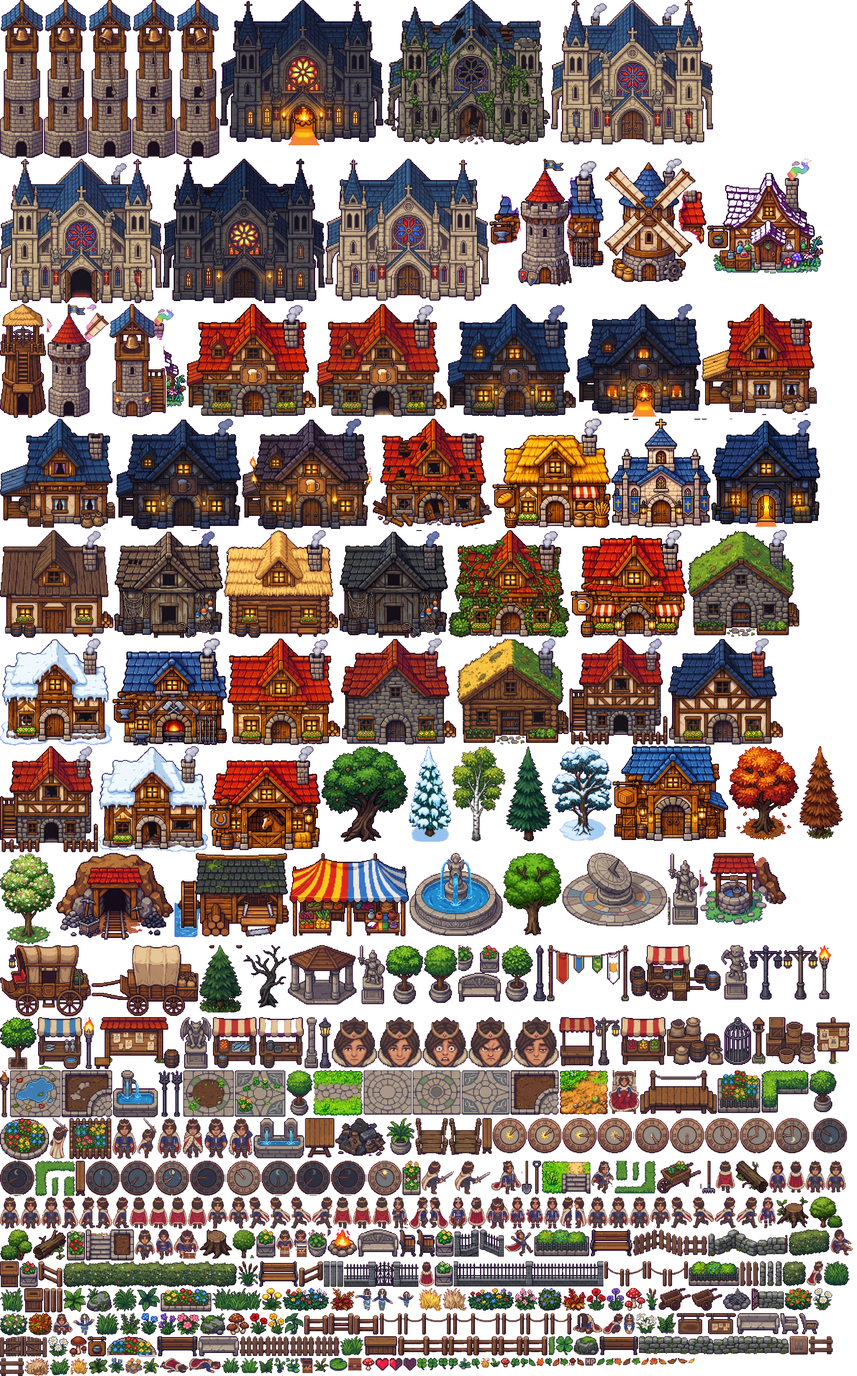
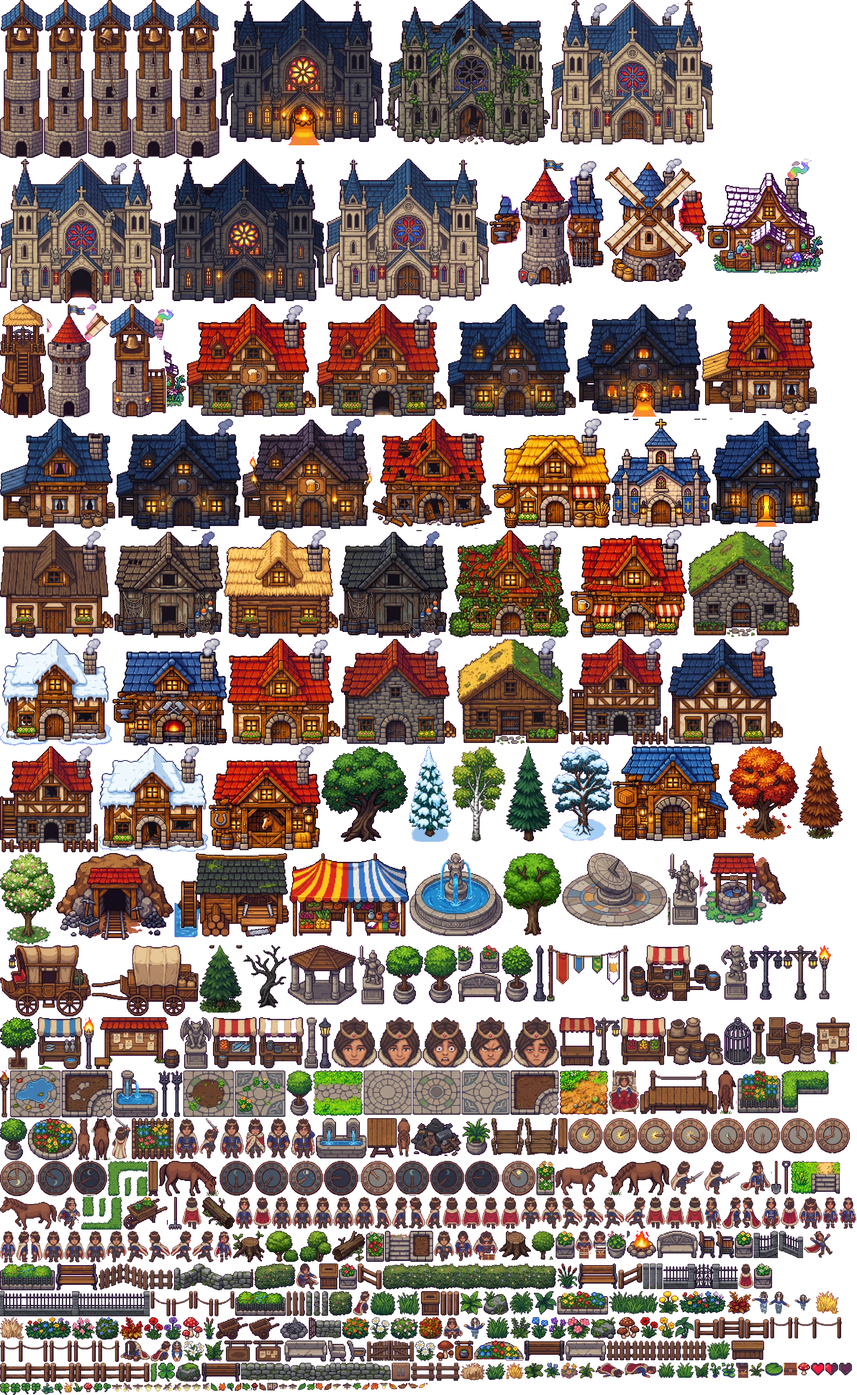
Adiciona cavalos no pasto e bandos de vagalumes
- Cavalo nas 4 direções e comendo: passeia pelo pasto ao sul do rio,
  para para comer, desvia da fogueira e pode ser acariciado
- Vagalumes em bandos raros de 5 a 9, mais frequentes à noite, que
  piscam e iluminam a escuridão

Claude-Session: https://claude.ai/code/session_01EDmvahWupUhnxnrcKo2aP1

diff --git a/assets/game/atlas.js b/assets/game/atlas.js
@@ -1,1 +1,1 @@
-window.ATLAS = {"agachado-baixo":[127,3136,46,52],"agachado-cima":[1002,3012,35,60],"agachado-direita":[1441,3136,48,50],"agachado-direita-b":[1928,3012,39,58],"andar-baixo-0":[1925,2772,47,76],"andar-baixo-1":[1974,2772,47,76],"andar-baixo-2":[0,2858,47,76],"andar-baixo-3":[49,2858,48,76],"andar-baixo-b0":[1404,2858,48,75],"andar-baixo-b1":[99,2858,47,76],"andar-baixo-b2":[1454,2858,48,75],"andar-baixo-b3":[1504,2858,48,75],"andar-cima-0":[310,2858,44,76],"andar-cima-1":[356,2858,45,76],"andar-cima-2":[403,2858,44,76],"andar-cima-3":[449,2858,45,76],"andar-lado-d0":[189,2858,38,76],"andar-lado-d1":[270,2858,38,76],"andar-lado-e0":[148,2858,39,76],"andar-lado-e1":[229,2858,39,76],"arbusto-0":[556,2936,55,69],"arbusto-1":[1934,2858,79,74],"arbusto-2":[0,2936,77,74],"armazem":[1464,1782,276,226],"arvore-betula":[1080,1782,128,227],"arvore-carvalho":[768,1782,207,228],"arvore-copa":[1203,2037,139,197],"arvore-florida":[0,2037,132,218],"arvore-neve":[1319,1782,143,226],"arvore-outono":[1742,1782,167,224],"arvore-pinheiro":[1210,1782,107,227],"arvore-pinheiro-2":[476,2257,103,161],"arvore-pinheiro-neve":[977,1782,101,228],"arvore-pinheiro-outono":[1911,1782,103,223],"arvore-seca":[581,2257,105,149],"ataque-baixo":[328,2670,46,96],"ataque-cima":[119,2670,45,98],"ataque-lado-0":[1007,2772,78,80],"ataque-lado-1":[1087,2772,85,80],"bau-abaixar":[416,2936,59,70],"bau-aberto":[718,3243,29,36],"bau-abrir-0":[660,2936,41,66],"bau-abrir-1":[703,2936,30,66],"bau-fechado":[832,3243,32,30],"bau-perto":[1162,2858,55,76],"botao-pausa":[1887,3191,44,44],"cama":[1455,2556,73,104],"capela":[1461,1000,237,259],"carroca":[219,2257,255,169],"carruagem":[0,2257,217,170],"casa-azul":[0,1000,275,264],"casa-dia":[544,1525,269,254],"casa-enxaimel-azul":[1597,1525,274,253],"casa-escada":[1361,1525,234,253],"casa-escada-2":[0,1782,234,253],"casa-hera":[1072,1266,290,256],"casa-madeira":[0,1266,271,257],"casa-neve":[0,1525,267,255],"casa-neve-aberta":[236,1782,261,252],"casa-noite":[1700,1000,260,258],"casa-palha":[535,1266,273,257],"casa-pedra":[815,1525,275,253],"casa-pedra-grama":[1643,1266,267,255],"casa-pescador":[273,1266,260,257],"casa-pescador-2":[810,1266,260,257],"casa-ruina":[891,1000,284,262],"casa-telhado-grama":[1092,1525,267,253],"casa-vermelha-galpao":[1677,726,275,265],"catedral-aberta":[0,379,387,345],"catedral-dia":[1317,0,387,345],"catedral-dia-2":[778,379,390,339],"catedral-fogo":[526,0,390,347],"catedral-noite":[389,379,387,345],"catedral-ruina":[918,0,397,347],"cercas-0":[573,3191,118,47],"cercas-1":[693,3191,58,47],"cercas-10":[105,3076,14,58],"cercas-11":[121,3076,13,58],"cercas-12":[136,3076,13,58],"cercas-13":[715,3012,57,61],"cercas-14":[92,3012,57,62],"cercas-15":[951,3191,357,46],"cercas-16":[727,3136,177,51],"cercas-17":[1527,3191,358,44],"cercas-18":[1815,3012,16,59],"cercas-19":[1833,3012,17,59],"cercas-2":[753,3191,58,47],"cercas-20":[1852,3012,16,59],"cercas-21":[1692,2936,191,64],"cercas-22":[1796,3076,77,54],"cercas-23":[1084,3012,358,60],"cercas-24":[774,3012,14,61],"cercas-25":[790,3012,14,61],"cercas-26":[806,3012,14,61],"cercas-27":[1086,2936,58,65],"cercas-28":[1146,2936,58,65],"cercas-29":[822,3012,178,61],"cercas-3":[1933,3191,57,43],"cercas-30":[151,3012,416,62],"cercas-31":[1885,2936,98,63],"cercas-32":[1870,3012,56,59],"cercas-33":[1444,3012,48,60],"cercas-34":[906,3136,56,51],"cercas-35":[964,3136,115,51],"cercas-36":[1081,3136,115,51],"cercas-37":[1198,3136,56,51],"cercas-38":[1256,3136,56,51],"cercas-39":[1314,3136,53,51],"cercas-4":[0,3243,57,43],"cercas-40":[1494,3012,51,60],"cercas-41":[1547,3012,47,60],"cercas-42":[1596,3012,48,60],"cercas-5":[1769,3012,13,59],"cercas-6":[1784,3012,14,59],"cercas-7":[1800,3012,13,59],"cercas-8":[1513,2936,177,64],"cercas-9":[0,3191,112,50],"corpo-assustado":[436,2670,50,96],"corpo-bravo":[488,2670,56,96],"corpo-cansado":[546,2670,58,96],"corpo-feliz":[268,2670,58,97],"corpo-neutro":[376,2670,58,96],"correr-baixo-0":[496,2858,48,76],"correr-baixo-1":[1554,2858,48,75],"correr-baixo-2":[322,2936,48,73],"correr-baixo-3":[546,2858,48,76],"correr-cima-0":[796,2858,45,76],"correr-cima-1":[843,2858,45,76],"correr-cima-2":[890,2858,45,76],"correr-cima-3":[1711,2772,45,77],"correr-lado-d0":[1708,2858,50,75],"correr-lado-d1":[1760,2858,50,75],"correr-lado-d2":[696,2858,48,76],"correr-lado-d3":[746,2858,48,76],"correr-lado-e0":[1604,2858,50,75],"correr-lado-e1":[1656,2858,50,75],"correr-lado-e2":[596,2858,48,76],"correr-lado-e3":[646,2858,48,76],"dano-ajoelhado":[1369,3136,70,50],"dano-capa":[1174,2772,71,80],"dano-empurrado":[1206,2936,69,64],"dano-ferido":[937,2858,39,76],"dano-golpe":[1413,2772,54,78],"desmaio-0":[372,2936,42,72],"desmaio-1":[1985,2936,53,62],"desmaio-2":[382,3243,68,36],"desmaio-3":[452,3243,76,36],"estabulo":[499,1782,267,248],"feira":[692,2037,285,199],"ferreiro":[269,1525,273,255],"hp-cheio":[897,3243,32,30],"hp-meio":[931,3243,31,30],"hp-rotulo":[1399,3243,25,18],"hp-vazio":[964,3243,31,30],"loja-pocoes":[1690,379,277,274],"loja-taverna":[1364,1266,277,256],"mercado-0":[1483,2429,109,114],"mercado-1":[507,2429,108,122],"mercado-10":[871,3191,78,46],"mercado-11":[1934,2556,65,100],"mercado-12":[924,2670,67,88],"mercado-13":[735,2936,46,66],"mercado-14":[1095,2257,102,135],"mercado-15":[613,2936,45,67],"mercado-16":[1277,2936,131,64],"mercado-17":[1819,2556,113,101],"mercado-18":[1715,2556,102,102],"mercado-19":[166,2670,100,98],"mercado-2":[89,2429,108,124],"mercado-20":[1570,2772,106,78],"mercado-21":[1247,2772,24,80],"mercado-22":[1273,2772,20,80],"mercado-23":[1678,2772,31,78],"mercado-24":[1410,2936,101,64],"mercado-25":[256,3191,118,48],"mercado-26":[1797,2429,32,113],"mercado-27":[1951,2429,80,112],"mercado-28":[1731,2429,64,114],"mercado-29":[1574,3076,77,54],"mercado-3":[617,2429,109,122],"mercado-30":[1761,3136,102,50],"mercado-31":[181,2772,22,84],"mercado-32":[729,2670,70,94],"mercado-33":[1153,2670,22,85],"mercado-34":[58,3076,45,58],"mercado-35":[0,3012,45,62],"mercado-36":[1530,2556,183,104],"mercado-37":[1653,3076,73,54],"mercado-38":[376,3191,96,48],"mercado-39":[1275,2257,30,134],"mercado-4":[1831,2429,118,112],"mercado-40":[1956,2257,30,129],"mercado-41":[854,2257,66,141],"mercado-42":[1307,2257,196,134],"mercado-43":[688,2257,164,142],"mercado-44":[379,2556,28,111],"mercado-45":[409,2556,27,111],"mercado-46":[0,2556,22,112],"mercado-47":[728,2429,32,122],"mercado-48":[199,2429,25,124],"mercado-49":[762,2429,29,122],"mercado-5":[1594,2429,135,114],"mercado-50":[1423,2429,58,115],"mercado-51":[431,2429,74,123],"mercado-52":[1724,2257,64,130],"mercado-53":[24,2556,121,112],"mercado-54":[438,2556,121,111],"mercado-55":[561,2556,121,111],"mercado-56":[147,2556,121,112],"mercado-57":[270,2556,107,112],"mercado-58":[606,2670,121,96],"mercado-59":[801,2670,121,90],"mercado-6":[1617,3136,67,50],"mercado-60":[1728,3076,66,54],"mercado-61":[783,2936,70,66],"mercado-7":[1686,3136,73,50],"mercado-8":[1337,2429,84,117],"mercado-9":[684,2556,63,108],"mina":[134,2037,281,207],"moinho":[1444,379,244,294],"nadar-baixo":[1491,3136,26,50],"nadar-cima-0":[849,3076,39,54],"nadar-cima-1":[890,3076,49,54],"nadar-cima-2":[941,3076,58,54],"olhos-fechados-baixo":[1073,2858,43,76],"olhos-fechados-cima":[1118,2858,42,76],"padaria":[1177,1000,282,261],"parado-baixo":[1838,2772,41,76],"parado-cima":[1881,2772,42,76],"parado-direita":[1339,2858,31,75],"parado-esquerda":[1372,2858,30,75],"placa-pocoes":[209,3191,45,48],"pocao-0":[1219,2858,36,76],"pocao-1":[1257,2858,41,76],"pocao-2":[1812,2858,42,75],"pocao-3":[1300,2858,37,76],"poco":[1672,2037,207,171],"ponte-curta":[993,2670,78,88],"ponte-curta-2":[1073,2670,78,88],"praca-0":[979,2037,222,198],"praca-1":[1596,2037,74,172],"praca-10":[0,2670,117,100],"praca-11":[384,3076,121,56],"praca-12":[1013,2257,80,138],"praca-13":[1199,2257,74,135],"praca-14":[922,2257,89,141],"praca-15":[0,2429,87,125],"praca-16":[474,3191,97,48],"praca-17":[1865,3136,43,50],"praca-18":[1910,3136,46,50],"praca-19":[1646,3012,121,59],"praca-2":[1344,2037,250,176],"praca-20":[1433,3191,92,45],"praca-21":[1790,2257,80,130],"praca-22":[1872,2257,82,130],"praca-23":[226,2429,203,124],"praca-24":[1505,2257,217,133],"praca-25":[1041,2936,43,65],"praca-26":[47,3012,43,62],"praca-27":[1039,3012,43,60],"praca-28":[869,2556,115,106],"praca-29":[986,2556,115,106],"praca-3":[160,2936,43,74],"praca-30":[1103,2556,115,106],"praca-31":[1220,2556,115,106],"praca-32":[205,2936,115,74],"praca-33":[1295,2772,116,79],"praca-34":[749,2556,118,108],"praca-35":[1337,2556,116,106],"praca-4":[962,2772,43,82],"praca-5":[299,3243,41,38],"praca-6":[618,3012,95,61],"praca-7":[855,2936,97,65],"praca-8":[954,2936,40,65],"praca-9":[996,2936,43,65],"rei-nadando-4":[175,3136,51,52],"relogio-0":[1177,2670,82,84],"relogio-1":[1261,2670,81,84],"relogio-10":[205,2772,81,83],"relogio-11":[288,2772,81,83],"relogio-12":[371,2772,81,83],"relogio-13":[454,2772,82,83],"relogio-14":[538,2772,85,83],"relogio-15":[625,2772,81,83],"relogio-16":[708,2772,81,83],"relogio-17":[0,2772,82,84],"relogio-18":[791,2772,82,83],"relogio-19":[875,2772,85,83],"relogio-2":[1344,2670,82,84],"relogio-3":[1428,2670,84,84],"relogio-4":[1514,2670,85,84],"relogio-5":[1601,2670,82,84],"relogio-6":[1685,2670,81,84],"relogio-7":[1768,2670,82,84],"relogio-8":[1852,2670,85,84],"relogio-9":[1939,2670,85,84],"retrato-assustado":[1010,2429,108,120],"retrato-bravo":[1120,2429,105,120],"retrato-cansado":[1227,2429,108,120],"retrato-feliz":[903,2429,105,120],"retrato-neutro":[793,2429,108,120],"serraria":[417,2037,273,201],"sino-0":[0,0,103,377],"sino-1":[105,0,103,377],"sino-2":[210,0,104,377],"sino-3":[316,0,103,377],"sino-4":[421,0,103,377],"sonambulo-direita":[978,2858,46,76],"sonambulo-esquerda":[1026,2858,45,76],"taverna-aberta":[757,726,310,269],"taverna-dia":[446,726,309,269],"taverna-lareira":[1378,726,297,269],"taverna-noite":[1069,726,307,269],"taverna-noite-2":[277,1000,299,264],"taverna-tochas":[578,1000,311,264],"toco":[477,2936,77,70],"toco-broto":[1856,2858,76,75],"torre-guarda":[1170,379,272,304],"torre-pedra":[112,726,148,270],"torre-sino-casa":[262,726,182,270],"torre-vigia":[0,726,110,272],"tronco":[1758,2772,78,77],"tronco-2":[79,2936,79,74],"vegetacao-0":[530,3243,42,36],"vegetacao-1":[119,3243,48,41],"vegetacao-10":[813,3191,56,46],"vegetacao-11":[1969,3012,61,58],"vegetacao-12":[0,3076,56,58],"vegetacao-13":[270,3076,56,56],"vegetacao-14":[1469,2772,99,78],"vegetacao-15":[1310,3191,17,45],"vegetacao-16":[749,3243,37,34],"vegetacao-17":[1058,3076,57,54],"vegetacao-18":[59,3243,58,42],"vegetacao-19":[1645,3243,15,12],"vegetacao-2":[228,3136,56,52],"vegetacao-20":[574,3243,43,36],"vegetacao-21":[212,3243,45,38],"vegetacao-22":[1172,3243,23,22],"vegetacao-23":[597,3136,42,51],"vegetacao-24":[641,3136,38,51],"vegetacao-25":[337,3136,40,52],"vegetacao-26":[379,3136,42,52],"vegetacao-27":[1117,3076,111,54],"vegetacao-28":[1519,3136,50,50],"vegetacao-29":[1230,3076,54,54],"vegetacao-3":[507,3076,118,55],"vegetacao-30":[1875,3076,66,53],"vegetacao-31":[1286,3076,56,54],"vegetacao-32":[1344,3076,56,54],"vegetacao-33":[1943,3076,46,53],"vegetacao-34":[1402,3076,46,54],"vegetacao-35":[1450,3076,41,54],"vegetacao-36":[627,3076,46,55],"vegetacao-37":[675,3076,112,55],"vegetacao-38":[114,3191,50,49],"vegetacao-39":[423,3136,54,52],"vegetacao-4":[84,2772,95,84],"vegetacao-40":[0,3136,66,53],"vegetacao-41":[68,3136,57,53],"vegetacao-42":[789,3076,58,55],"vegetacao-43":[997,3243,23,29],"vegetacao-44":[1022,3243,24,29],"vegetacao-45":[1571,3136,44,50],"vegetacao-46":[151,3076,54,57],"vegetacao-47":[1493,3076,49,54],"vegetacao-48":[569,3012,47,61],"vegetacao-49":[1544,3076,28,54],"vegetacao-5":[286,3136,49,52],"vegetacao-50":[1339,3243,19,18],"vegetacao-51":[1574,3243,19,15],"vegetacao-52":[479,3136,60,52],"vegetacao-53":[1048,3243,22,27],"vegetacao-54":[1072,3243,22,27],"vegetacao-55":[619,3243,34,36],"vegetacao-56":[1197,3243,21,22],"vegetacao-57":[866,3243,29,30],"vegetacao-58":[788,3243,42,31],"vegetacao-59":[1426,3243,19,17],"vegetacao-6":[342,3243,38,37],"vegetacao-60":[1264,3243,16,19],"vegetacao-61":[1447,3243,19,17],"vegetacao-62":[1509,3243,21,16],"vegetacao-63":[1532,3243,18,16],"vegetacao-64":[1282,3243,19,19],"vegetacao-65":[1552,3243,20,16],"vegetacao-66":[1468,3243,19,17],"vegetacao-67":[1303,3243,16,19],"vegetacao-68":[1220,3243,22,22],"vegetacao-69":[1329,3191,40,45],"vegetacao-7":[1001,3076,55,54],"vegetacao-70":[328,3076,54,56],"vegetacao-71":[681,3136,44,51],"vegetacao-72":[166,3191,41,49],"vegetacao-73":[541,3136,54,52],"vegetacao-74":[1096,3243,29,27],"vegetacao-75":[259,3243,38,38],"vegetacao-76":[655,3243,27,36],"vegetacao-77":[1595,3243,23,14],"vegetacao-78":[1321,3243,16,19],"vegetacao-79":[1371,3191,60,45],"vegetacao-8":[1149,3243,21,23],"vegetacao-80":[207,3076,61,57],"vegetacao-81":[1127,3243,20,26],"vegetacao-82":[1244,3243,18,22],"vegetacao-83":[1360,3243,17,18],"vegetacao-84":[684,3243,32,36],"vegetacao-85":[1489,3243,18,17],"vegetacao-86":[1379,3243,18,18],"vegetacao-87":[1620,3243,23,13],"vegetacao-9":[169,3243,41,39]};
+window.ATLAS = {"agachado-baixo":[1060,3145,46,52],"agachado-cima":[1765,3017,35,60],"agachado-direita":[360,3201,48,50],"agachado-direita-b":[844,3083,39,58],"andar-baixo-0":[650,2858,47,76],"andar-baixo-1":[699,2858,47,76],"andar-baixo-2":[748,2858,47,76],"andar-baixo-3":[797,2858,48,76],"andar-baixo-b0":[104,2939,48,75],"andar-baixo-b1":[847,2858,47,76],"andar-baixo-b2":[154,2939,48,75],"andar-baixo-b3":[204,2939,48,75],"andar-cima-0":[1058,2858,44,76],"andar-cima-1":[1104,2858,45,76],"andar-cima-2":[1151,2858,44,76],"andar-cima-3":[1197,2858,45,76],"andar-lado-d0":[937,2858,38,76],"andar-lado-d1":[1018,2858,38,76],"andar-lado-e0":[896,2858,39,76],"andar-lado-e1":[977,2858,39,76],"arbusto-0":[1271,2939,55,69],"arbusto-1":[634,2939,79,74],"arbusto-2":[715,2939,77,74],"armazem":[1464,1782,276,226],"arvore-betula":[1080,1782,128,227],"arvore-carvalho":[768,1782,207,228],"arvore-copa":[1203,2037,139,197],"arvore-florida":[0,2037,132,218],"arvore-neve":[1319,1782,143,226],"arvore-outono":[1742,1782,167,224],"arvore-pinheiro":[1210,1782,107,227],"arvore-pinheiro-2":[476,2257,103,161],"arvore-pinheiro-neve":[977,1782,101,228],"arvore-pinheiro-outono":[1911,1782,103,223],"arvore-seca":[581,2257,105,149],"ataque-baixo":[477,2670,46,96],"ataque-cima":[268,2670,45,98],"ataque-lado-0":[1603,2772,78,80],"ataque-lado-1":[1683,2772,85,80],"bau-abaixar":[1131,2939,59,70],"bau-aberto":[1759,3254,29,36],"bau-abrir-0":[1375,2939,41,66],"bau-abrir-1":[1418,2939,30,66],"bau-fechado":[1873,3254,32,30],"bau-perto":[1910,2858,55,76],"botao-pausa":[936,3254,44,44],"cama":[1455,2556,73,104],"capela":[1461,1000,237,259],"carroca":[219,2257,255,169],"carruagem":[0,2257,217,170],"casa-azul":[0,1000,275,264],"casa-dia":[544,1525,269,254],"casa-enxaimel-azul":[1597,1525,274,253],"casa-escada":[1361,1525,234,253],"casa-escada-2":[0,1782,234,253],"casa-hera":[1072,1266,290,256],"casa-madeira":[0,1266,271,257],"casa-neve":[0,1525,267,255],"casa-neve-aberta":[236,1782,261,252],"casa-noite":[1700,1000,260,258],"casa-palha":[535,1266,273,257],"casa-pedra":[815,1525,275,253],"casa-pedra-grama":[1643,1266,267,255],"casa-pescador":[273,1266,260,257],"casa-pescador-2":[810,1266,260,257],"casa-ruina":[891,1000,284,262],"casa-telhado-grama":[1092,1525,267,253],"casa-vermelha-galpao":[1677,726,275,265],"catedral-aberta":[0,379,387,345],"catedral-dia":[1317,0,387,345],"catedral-dia-2":[778,379,390,339],"catedral-fogo":[526,0,390,347],"catedral-noite":[389,379,387,345],"catedral-ruina":[918,0,397,347],"cavalo-baixo":[950,2670,30,92],"cavalo-cima":[186,2670,29,100],"cavalo-comer-baixo":[1715,2556,46,104],"cavalo-comer-cima":[217,2670,49,100],"cavalo-comer-direita":[379,2772,144,84],"cavalo-comer-esquerda":[1454,2772,147,82],"cavalo-direita":[1327,2772,125,82],"cavalo-esquerda":[0,2858,136,79],"cercas-0":[1450,3201,118,47],"cercas-1":[1570,3201,58,47],"cercas-10":[1053,3083,14,58],"cercas-11":[1069,3083,13,58],"cercas-12":[1084,3083,13,58],"cercas-13":[1478,3017,57,61],"cercas-14":[855,3017,57,62],"cercas-15":[0,3254,357,46],"cercas-16":[1660,3145,177,51],"cercas-17":[576,3254,358,44],"cercas-18":[731,3083,16,59],"cercas-19":[749,3083,17,59],"cercas-2":[1630,3201,58,47],"cercas-20":[768,3083,16,59],"cercas-21":[415,3017,191,64],"cercas-22":[738,3145,77,54],"cercas-23":[0,3083,358,60],"cercas-24":[1537,3017,14,61],"cercas-25":[1553,3017,14,61],"cercas-26":[1569,3017,14,61],"cercas-27":[1801,2939,58,65],"cercas-28":[1861,2939,58,65],"cercas-29":[1585,3017,178,61],"cercas-3":[982,3254,57,43],"cercas-30":[914,3017,416,62],"cercas-31":[608,3017,98,63],"cercas-32":[786,3083,56,59],"cercas-33":[360,3083,48,60],"cercas-34":[1839,3145,56,51],"cercas-35":[1897,3145,115,51],"cercas-36":[0,3201,115,51],"cercas-37":[117,3201,56,51],"cercas-38":[175,3201,56,51],"cercas-39":[233,3201,53,51],"cercas-4":[1041,3254,57,43],"cercas-40":[410,3083,51,60],"cercas-41":[463,3083,47,60],"cercas-42":[512,3083,48,60],"cercas-5":[685,3083,13,59],"cercas-6":[700,3083,14,59],"cercas-7":[716,3083,13,59],"cercas-8":[236,3017,177,64],"cercas-9":[877,3201,112,50],"corpo-assustado":[585,2670,50,96],"corpo-bravo":[637,2670,56,96],"corpo-cansado":[695,2670,58,96],"corpo-feliz":[417,2670,58,97],"corpo-neutro":[525,2670,58,96],"correr-baixo-0":[1244,2858,48,76],"correr-baixo-1":[254,2939,48,75],"correr-baixo-2":[1037,2939,48,73],"correr-baixo-3":[1294,2858,48,76],"correr-cima-0":[1544,2858,45,76],"correr-cima-1":[1591,2858,45,76],"correr-cima-2":[1638,2858,45,76],"correr-cima-3":[436,2858,45,77],"correr-lado-d0":[408,2939,50,75],"correr-lado-d1":[460,2939,50,75],"correr-lado-d2":[1444,2858,48,76],"correr-lado-d3":[1494,2858,48,76],"correr-lado-e0":[304,2939,50,75],"correr-lado-e1":[356,2939,50,75],"correr-lado-e2":[1344,2858,48,76],"correr-lado-e3":[1394,2858,48,76],"dano-ajoelhado":[288,3201,70,50],"dano-capa":[1770,2772,71,80],"dano-empurrado":[1921,2939,69,64],"dano-ferido":[1685,2858,39,76],"dano-golpe":[138,2858,54,78],"desmaio-0":[1087,2939,42,72],"desmaio-1":[708,3017,53,62],"desmaio-2":[1423,3254,68,36],"desmaio-3":[1493,3254,76,36],"estabulo":[499,1782,267,248],"feira":[692,2037,285,199],"ferreiro":[269,1525,273,255],"hp-cheio":[1938,3254,32,30],"hp-meio":[1972,3254,31,30],"hp-rotulo":[639,3302,25,18],"hp-vazio":[2005,3254,31,30],"loja-pocoes":[1690,379,277,274],"loja-taverna":[1364,1266,277,256],"mercado-0":[1483,2429,109,114],"mercado-1":[507,2429,108,122],"mercado-10":[1748,3201,78,46],"mercado-11":[0,2670,65,100],"mercado-12":[1105,2670,67,88],"mercado-13":[1450,2939,46,66],"mercado-14":[1095,2257,102,135],"mercado-15":[1328,2939,45,67],"mercado-16":[0,3017,131,64],"mercado-17":[1867,2556,113,101],"mercado-18":[1763,2556,102,102],"mercado-19":[315,2670,100,98],"mercado-2":[89,2429,108,124],"mercado-20":[295,2858,106,78],"mercado-21":[1843,2772,24,80],"mercado-22":[1869,2772,20,80],"mercado-23":[403,2858,31,78],"mercado-24":[133,3017,101,64],"mercado-25":[1133,3201,118,48],"mercado-26":[1797,2429,32,113],"mercado-27":[1951,2429,80,112],"mercado-28":[1731,2429,64,114],"mercado-29":[516,3145,77,54],"mercado-3":[617,2429,109,122],"mercado-30":[680,3201,102,50],"mercado-31":[355,2772,22,84],"mercado-32":[878,2670,70,94],"mercado-33":[1334,2670,22,85],"mercado-34":[1006,3083,45,58],"mercado-35":[763,3017,45,62],"mercado-36":[1530,2556,183,104],"mercado-37":[595,3145,73,54],"mercado-38":[1253,3201,96,48],"mercado-39":[1275,2257,30,134],"mercado-4":[1831,2429,118,112],"mercado-40":[1956,2257,30,129],"mercado-41":[854,2257,66,141],"mercado-42":[1307,2257,196,134],"mercado-43":[688,2257,164,142],"mercado-44":[379,2556,28,111],"mercado-45":[409,2556,27,111],"mercado-46":[0,2556,22,112],"mercado-47":[728,2429,32,122],"mercado-48":[199,2429,25,124],"mercado-49":[762,2429,29,122],"mercado-5":[1594,2429,135,114],"mercado-50":[1423,2429,58,115],"mercado-51":[431,2429,74,123],"mercado-52":[1724,2257,64,130],"mercado-53":[24,2556,121,112],"mercado-54":[438,2556,121,111],"mercado-55":[561,2556,121,111],"mercado-56":[147,2556,121,112],"mercado-57":[270,2556,107,112],"mercado-58":[755,2670,121,96],"mercado-59":[982,2670,121,90],"mercado-6":[536,3201,67,50],"mercado-60":[670,3145,66,54],"mercado-61":[1498,2939,70,66],"mercado-7":[605,3201,73,50],"mercado-8":[1337,2429,84,117],"mercado-9":[684,2556,63,108],"mina":[134,2037,281,207],"moinho":[1444,379,244,294],"nadar-baixo":[410,3201,26,50],"nadar-cima-0":[1797,3083,39,54],"nadar-cima-1":[1838,3083,49,54],"nadar-cima-2":[1889,3083,58,54],"olhos-fechados-baixo":[1821,2858,43,76],"olhos-fechados-cima":[1866,2858,42,76],"padaria":[1177,1000,282,261],"parado-baixo":[563,2858,41,76],"parado-cima":[606,2858,42,76],"parado-direita":[39,2939,31,75],"parado-esquerda":[72,2939,30,75],"placa-pocoes":[1086,3201,45,48],"pocao-0":[1967,2858,36,76],"pocao-1":[2005,2858,41,76],"pocao-2":[512,2939,42,75],"pocao-3":[0,2939,37,76],"poco":[1672,2037,207,171],"ponte-curta":[1174,2670,78,88],"ponte-curta-2":[1254,2670,78,88],"praca-0":[979,2037,222,198],"praca-1":[1596,2037,74,172],"praca-10":[67,2670,117,100],"praca-11":[1332,3083,121,56],"praca-12":[1013,2257,80,138],"praca-13":[1199,2257,74,135],"praca-14":[922,2257,89,141],"praca-15":[0,2429,87,125],"praca-16":[1351,3201,97,48],"praca-17":[784,3201,43,50],"praca-18":[829,3201,46,50],"praca-19":[562,3083,121,59],"praca-2":[1344,2037,250,176],"praca-20":[482,3254,92,45],"praca-21":[1790,2257,80,130],"praca-22":[1872,2257,82,130],"praca-23":[226,2429,203,124],"praca-24":[1505,2257,217,133],"praca-25":[1756,2939,43,65],"praca-26":[810,3017,43,62],"praca-27":[1802,3017,43,60],"praca-28":[869,2556,115,106],"praca-29":[986,2556,115,106],"praca-3":[875,2939,43,74],"praca-30":[1103,2556,115,106],"praca-31":[1220,2556,115,106],"praca-32":[920,2939,115,74],"praca-33":[1891,2772,116,79],"praca-34":[749,2556,118,108],"praca-35":[1337,2556,116,106],"praca-4":[1282,2772,43,82],"praca-5":[1340,3254,41,38],"praca-6":[1381,3017,95,61],"praca-7":[1570,2939,97,65],"praca-8":[1669,2939,40,65],"praca-9":[1711,2939,43,65],"rei-nadando-4":[1108,3145,51,52],"relogio-0":[1358,2670,82,84],"relogio-1":[1442,2670,81,84],"relogio-10":[525,2772,81,83],"relogio-11":[608,2772,81,83],"relogio-12":[691,2772,81,83],"relogio-13":[774,2772,82,83],"relogio-14":[858,2772,85,83],"relogio-15":[945,2772,81,83],"relogio-16":[1028,2772,81,83],"relogio-17":[174,2772,82,84],"relogio-18":[1111,2772,82,83],"relogio-19":[1195,2772,85,83],"relogio-2":[1525,2670,82,84],"relogio-3":[1609,2670,84,84],"relogio-4":[1695,2670,85,84],"relogio-5":[1782,2670,82,84],"relogio-6":[1866,2670,81,84],"relogio-7":[1949,2670,82,84],"relogio-8":[0,2772,85,84],"relogio-9":[87,2772,85,84],"retrato-assustado":[1010,2429,108,120],"retrato-bravo":[1120,2429,105,120],"retrato-cansado":[1227,2429,108,120],"retrato-feliz":[903,2429,105,120],"retrato-neutro":[793,2429,108,120],"serraria":[417,2037,273,201],"sino-0":[0,0,103,377],"sino-1":[105,0,103,377],"sino-2":[210,0,104,377],"sino-3":[316,0,103,377],"sino-4":[421,0,103,377],"sonambulo-direita":[1726,2858,46,76],"sonambulo-esquerda":[1774,2858,45,76],"taverna-aberta":[757,726,310,269],"taverna-dia":[446,726,309,269],"taverna-lareira":[1378,726,297,269],"taverna-noite":[1069,726,307,269],"taverna-noite-2":[277,1000,299,264],"taverna-tochas":[578,1000,311,264],"toco":[1192,2939,77,70],"toco-broto":[556,2939,76,75],"torre-guarda":[1170,379,272,304],"torre-pedra":[112,726,148,270],"torre-sino-casa":[262,726,182,270],"torre-vigia":[0,726,110,272],"tronco":[483,2858,78,77],"tronco-2":[794,2939,79,74],"vagalume-0":[267,3302,25,21],"vagalume-1":[294,3302,21,21],"vagalume-10":[436,3302,21,20],"vagalume-11":[459,3302,21,20],"vagalume-12":[344,3302,21,21],"vagalume-13":[367,3302,21,21],"vagalume-14":[689,3302,21,17],"vagalume-15":[819,3302,21,16],"vagalume-2":[390,3302,21,20],"vagalume-3":[413,3302,21,20],"vagalume-4":[317,3302,25,21],"vagalume-5":[482,3302,20,19],"vagalume-6":[907,3302,21,15],"vagalume-7":[795,3302,22,16],"vagalume-8":[1018,3302,4,6],"vagalume-9":[666,3302,21,17],"vegetacao-0":[1571,3254,42,36],"vegetacao-1":[1160,3254,48,41],"vegetacao-10":[1690,3201,56,46],"vegetacao-11":[885,3083,61,58],"vegetacao-12":[948,3083,56,58],"vegetacao-13":[1218,3083,56,56],"vegetacao-14":[194,2858,99,78],"vegetacao-15":[359,3254,17,45],"vegetacao-16":[1790,3254,37,34],"vegetacao-17":[0,3145,57,54],"vegetacao-18":[1100,3254,58,42],"vegetacao-19":[1001,3302,15,12],"vegetacao-2":[1161,3145,56,52],"vegetacao-20":[1615,3254,43,36],"vegetacao-21":[1253,3254,45,38],"vegetacao-22":[175,3302,23,22],"vegetacao-23":[1530,3145,42,51],"vegetacao-24":[1574,3145,38,51],"vegetacao-25":[1270,3145,40,52],"vegetacao-26":[1312,3145,42,52],"vegetacao-27":[59,3145,111,54],"vegetacao-28":[438,3201,50,50],"vegetacao-29":[172,3145,54,54],"vegetacao-3":[1455,3083,118,55],"vegetacao-30":[817,3145,66,53],"vegetacao-31":[228,3145,56,54],"vegetacao-32":[286,3145,56,54],"vegetacao-33":[885,3145,46,53],"vegetacao-34":[344,3145,46,54],"vegetacao-35":[392,3145,41,54],"vegetacao-36":[1575,3083,46,55],"vegetacao-37":[1623,3083,112,55],"vegetacao-38":[991,3201,50,49],"vegetacao-39":[1356,3145,54,52],"vegetacao-4":[258,2772,95,84],"vegetacao-40":[933,3145,66,53],"vegetacao-41":[1001,3145,57,53],"vegetacao-42":[1737,3083,58,55],"vegetacao-43":[0,3302,23,29],"vegetacao-44":[25,3302,24,29],"vegetacao-45":[490,3201,44,50],"vegetacao-46":[1099,3083,54,57],"vegetacao-47":[435,3145,49,54],"vegetacao-48":[1332,3017,47,61],"vegetacao-49":[486,3145,28,54],"vegetacao-5":[1219,3145,49,52],"vegetacao-50":[579,3302,19,18],"vegetacao-51":[930,3302,19,15],"vegetacao-52":[1412,3145,60,52],"vegetacao-53":[51,3302,22,27],"vegetacao-54":[75,3302,22,27],"vegetacao-55":[1660,3254,34,36],"vegetacao-56":[200,3302,21,22],"vegetacao-57":[1907,3254,29,30],"vegetacao-58":[1829,3254,42,31],"vegetacao-59":[712,3302,19,17],"vegetacao-6":[1383,3254,38,37],"vegetacao-60":[504,3302,16,19],"vegetacao-61":[733,3302,19,17],"vegetacao-62":[842,3302,21,16],"vegetacao-63":[865,3302,18,16],"vegetacao-64":[522,3302,19,19],"vegetacao-65":[885,3302,20,16],"vegetacao-66":[754,3302,19,17],"vegetacao-67":[543,3302,16,19],"vegetacao-68":[223,3302,22,22],"vegetacao-69":[378,3254,40,45],"vegetacao-7":[1949,3083,55,54],"vegetacao-70":[1276,3083,54,56],"vegetacao-71":[1614,3145,44,51],"vegetacao-72":[1043,3201,41,49],"vegetacao-73":[1474,3145,54,52],"vegetacao-74":[99,3302,29,27],"vegetacao-75":[1300,3254,38,38],"vegetacao-76":[1696,3254,27,36],"vegetacao-77":[951,3302,23,14],"vegetacao-78":[561,3302,16,19],"vegetacao-79":[420,3254,60,45],"vegetacao-8":[152,3302,21,23],"vegetacao-80":[1155,3083,61,57],"vegetacao-81":[130,3302,20,26],"vegetacao-82":[247,3302,18,22],"vegetacao-83":[600,3302,17,18],"vegetacao-84":[1725,3254,32,36],"vegetacao-85":[775,3302,18,17],"vegetacao-86":[619,3302,18,18],"vegetacao-87":[976,3302,23,13],"vegetacao-9":[1210,3254,41,39]};

diff --git a/js/game.js b/js/game.js
@@ -309,8 +309,179 @@ function newPlayer() {
   };
 }
 
+// ------------------------------------------------------------
+//  Cavalos (passeiam pelo pasto e param para comer)
+// ------------------------------------------------------------
+const HORSE = {
+  walk: { down: 'cavalo-baixo', up: 'cavalo-cima', left: 'cavalo-esquerda', right: 'cavalo-direita' },
+  eat: { down: 'cavalo-comer-baixo', up: 'cavalo-comer-cima', left: 'cavalo-comer-esquerda', right: 'cavalo-comer-direita' },
+};
+const HORSE_SPEED = 45;
+
+function horseFoot(h) {
+  const side = h.facing === 'left' || h.facing === 'right';
+  const w = side ? 84 : 30;
+  const d = side ? 22 : 54;
+  return { x: h.x - w / 2, y: h.y - d, w, h: d };
+}
+
+function makeHorse(x, y) {
+  const h = {
+    sprite: 'cavalo-direita', x, y, scale: 1, solid: true, foot: [1, 1], kind: 'cavalo', talk: 'cavalo',
+    facing: Math.random() < 0.5 ? 'left' : 'right', mode: 'eat', modeT: rand(2, 6), tx: x, ty: y, horse: true,
+  };
+  h.fb = horseFoot(h);
+  return h;
+}
+
+function horseBlocked(h, x, y) {
+  const p = world.pasture;
+  if (x < p.x0 || x > p.x1 || y < p.y0 || y > p.y1) return true;
+  const nb = horseFoot({ x, y, facing: h.facing });
+  for (const o of world.objects) {
+    if (o === h) continue;
+    const f = footBox(o);
+    if (f && overlap(nb, f)) return true;
+  }
+  if (player && overlap(nb, { x: player.x - 12, y: player.y - 12, w: 24, h: 12 })) return true;
+  return false;
+}
+
+function pickHorseTarget(h) {
+  const p = world.pasture;
+  for (let i = 0; i < 10; i++) {
+    const tx = rand(p.x0 + 40, p.x1 - 40);
+    const ty = rand(p.y0 + 30, p.y1 - 10);
+    if (p.avoid.every((a) => Math.hypot(tx - a.x, ty - a.y) > a.r)) { h.tx = tx; h.ty = ty; return; }
+  }
+}
+
+function updateHorses(dt) {
+  for (const h of world.objects) {
+    if (!h.horse) continue;
+    h.modeT -= dt;
+    if (h.mode === 'walk') {
+      const dx = h.tx - h.x;
+      const dy = h.ty - h.y;
+      const d = Math.hypot(dx, dy);
+      if (d < 4 || h.modeT <= 0) {
+        h.mode = Math.random() < 0.65 ? 'eat' : 'idle';
+        h.modeT = h.mode === 'eat' ? rand(4, 9) : rand(1.5, 4);
+      } else {
+        // anda em "L": primeiro no eixo mais longo (fica bem com 4 direções)
+        const horiz = Math.abs(dx) > 6 && (Math.abs(dx) >= Math.abs(dy) || Math.abs(dy) <= 6);
+        const vx = horiz ? Math.sign(dx) * HORSE_SPEED : 0;
+        const vy = horiz ? 0 : Math.sign(dy) * HORSE_SPEED;
+        h.facing = horiz ? (vx > 0 ? 'right' : 'left') : (vy > 0 ? 'down' : 'up');
+        const nx = h.x + vx * dt;
+        const ny = h.y + vy * dt;
+        if (horseBlocked(h, nx, ny)) { h.mode = 'idle'; h.modeT = rand(0.5, 1.5); } else { h.x = nx; h.y = ny; }
+      }
+    } else if (h.modeT <= 0) {
+      h.mode = 'walk';
+      h.modeT = 12;
+      pickHorseTarget(h);
+    }
+    h.talk = h.mode === 'eat' ? 'cavaloComendo' : 'cavalo';
+    h.sprite = (h.mode === 'eat' ? HORSE.eat : HORSE.walk)[h.facing];
+    h.fb = horseFoot(h);
+  }
+}
+
+// ------------------------------------------------------------
+//  Vagalumes: bandos raros de 5+ que passeiam pelo mapa,
+//  principalmente à noite
+// ------------------------------------------------------------
+const FLY_FRAMES = ['vagalume-12', 'vagalume-13', 'vagalume-11', 'vagalume-10', 'vagalume-0', 'vagalume-4'];
+let swarms = [];
+let swarmCooldown = 20;
+
+function spawnSwarm() {
+  // nasce fora da tela, perto do jogador, e cruza em direção a um ponto do outro lado
+  const ang = rand(0, Math.PI * 2);
+  const dist = Math.max(VIEW_W, VIEW_H) * 0.65;
+  const cx = clamp(player.x + Math.cos(ang) * dist, T, world.w * T - T);
+  const cy = clamp(player.y + Math.sin(ang) * dist, 5 * T, world.h * T - T);
+  const tx = clamp(player.x - Math.cos(ang) * dist + rand(-200, 200), T, world.w * T - T);
+  const ty = clamp(player.y - Math.sin(ang) * dist + rand(-200, 200), 5 * T, world.h * T - T);
+  const n = 5 + Math.floor(Math.random() * 5);
+  const flies = [];
+  for (let i = 0; i < n; i++) {
+    flies.push({
+      ox: rand(-50, 50), oy: rand(-40, 40), ph: rand(0, 10), sp: rand(0.8, 1.6),
+      blink: rand(0, 6), blinkSp: rand(1.2, 2.4), x: cx, y: cy,
+    });
+  }
+  swarms.push({ x: cx, y: cy, tx, ty, flies, t: 0, life: rand(45, 80), seen: false });
+}
+
+function updateSwarms(dt) {
+  const night = game.night;
+  swarmCooldown -= dt;
+  // raro: em média ~1 bando a cada 1,5 min à noite e ~12 min de dia
+  const rate = night ? 1 / 90 : 1 / 720;
+  if (swarms.length === 0 && swarmCooldown <= 0 && Math.random() < rate * dt) {
+    spawnSwarm();
+    swarmCooldown = 30;
+  }
+  for (const s of swarms) {
+    s.t += dt;
+    const dx = s.tx - s.x;
+    const dy = s.ty - s.y;
+    const d = Math.hypot(dx, dy);
+    if (d < 40) { // chegou: escolhe outro ponto por perto
+      s.tx = clamp(s.x + rand(-500, 500), T, world.w * T - T);
+      s.ty = clamp(s.y + rand(-350, 350), 5 * T, world.h * T - T);
+    } else {
+      s.x += (dx / d) * 32 * dt;
+      s.y += (dy / d) * 32 * dt;
+    }
+    for (const f of s.flies) {
+      const k = s.t * f.sp + f.ph;
+      f.x = s.x + f.ox + Math.sin(k * 1.3) * 28 + Math.sin(k * 0.37) * 18;
+      f.y = s.y + f.oy + Math.cos(k * 1.1) * 18 + Math.sin(k * 0.53) * 12;
+      f.dx = Math.cos(k * 1.3) * 1.3;
+    }
+    if (!s.seen && Math.abs(s.x - player.x) < VIEW_W / 2 && Math.abs(s.y - player.y) < VIEW_H / 2) s.seen = true;
+  }
+  swarms = swarms.filter((s) => s.t < s.life);
+}
+
+function swarmAlpha(s) {
+  return clamp(Math.min(s.t / 3, (s.life - s.t) / 3), 0, 1);
+}
+
+function flyGlow(f) {
+  return 0.35 + 0.65 * Math.max(0, Math.sin(game.time * f.blinkSp + f.blink)); // pisca
+}
+
+function drawSwarms(cx, cy) {
+  for (const s of swarms) {
+    const a = swarmAlpha(s);
+    for (const f of s.flies) {
+      const x = f.x - cx;
+      const y = f.y - cy;
+      if (x < -40 || x > VIEW_W + 40 || y < -40 || y > VIEW_H + 40) continue;
+      const g = flyGlow(f) * a;
+      ctx.save();
+      ctx.globalCompositeOperation = 'lighter';
+      const grad = ctx.createRadialGradient(x, y - 4, 0, x, y - 4, 22);
+      grad.addColorStop(0, `rgba(230,255,120,${0.55 * g})`);
+      grad.addColorStop(1, 'rgba(230,255,120,0)');
+      ctx.fillStyle = grad;
+      ctx.fillRect(x - 22, y - 26, 44, 44);
+      ctx.restore();
+      const frame = FLY_FRAMES[Math.floor(game.time * 12 + f.ph * 3) % 2 + (g > 0.6 ? 2 : 0)];
+      drawSprite(frame, x, y + 8, { alpha: a, flip: f.dx < 0 });
+    }
+  }
+}
+
 function startGame() {
   world = buildWorld();
+  for (const h of world.horses) world.objects.push(makeHorse(h.x, h.y));
+  swarms = [];
+  swarmCooldown = 20;
   world.chestsTotal = world.objects.filter((o) => o.kind === 'bau').length;
   player = newPlayer();
   game.coins = 0;
@@ -328,6 +499,7 @@ function startGame() {
 //  Colisão
 // ------------------------------------------------------------
 function footBox(o) {
+  if (o.horse) return o.fb;
   if (!o.solid || !o.foot) return null;
   if (!o.fb) {
     const s = spriteSize(o.sprite);
@@ -812,6 +984,7 @@ function update(dt) {
 
   if (world && player && game.state !== 'title') {
     for (const o of world.objects) if (o.ringT > 0) o.ringT -= dt;
+    if (game.state !== 'pause') { updateHorses(dt); updateSwarms(dt); }
     updateParticles(dt);
     updateCamera(dt);
   }
@@ -952,6 +1125,9 @@ function drawNight(cx, cy, dark) {
     const ly = o.kind === 'fogo' ? o.y - 20 : o.y - s.h * o.scale * (lamp ? 0.8 : 0.3);
     lights.push({ x: o.x, y: ly, r: r * (o.kind === 'fogo' ? 1 + Math.sin(game.time * 13) * 0.05 : 1) });
   }
+  for (const sw of swarms) {
+    for (const f of sw.flies) lights.push({ x: f.x, y: f.y - 4, r: 46 * flyGlow(f) * swarmAlpha(sw), own: true });
+  }
   const visible = lights.filter((l) => {
     const x = l.x - cx;
     const y = l.y - cy;
@@ -988,6 +1164,7 @@ function interactLabel(o) {
   if (o.kind === 'casa') return 'Dormir';
   if (o.kind === 'sino') return 'Tocar';
   if (o.kind === 'poco') return 'Beber';
+  if (o.kind === 'cavalo') return 'Acariciar';
   return 'Ver';
 }
 
@@ -1023,6 +1200,7 @@ function drawWorld() {
 
   const dark = darkness();
   if (dark > 0.01) drawNight(cx, cy, dark);
+  drawSwarms(cx, cy);
 
   // indicador de interação
   if (game.state === 'play' && player.target && !busy() && !player.chestQuick) {
@@ -1280,5 +1458,5 @@ requestAnimationFrame(frame);
 
 // Exposto para depuração/testes
 window.BlueCastle = {
-  game, Input, get world() { return world; }, get player() { return player; }, interact, sleep, setClock, hurt,
+  game, Input, get world() { return world; }, get player() { return player; }, interact, sleep, setClock, hurt, spawnSwarm, get swarms() { return swarms; },
 };

diff --git a/js/world.js b/js/world.js
@@ -195,6 +195,9 @@ function buildWorld() {
   return {
     w: MAP_W, h: MAP_H, ground, tiles, objects,
     spawn: { x: 4.2 * T, y: 16.2 * T },
+    // pasto dos cavalos (em px) e pontos a evitar
+    pasture: { x0: 23.4 * T, y0: 25.7 * T, x1: 29.6 * T, y1: 30.6 * T, avoid: [{ x: 27.5 * T, y: 28.4 * T, r: 90 }] },
+    horses: [{ x: 24.5 * T, y: 27 * T }, { x: 28.6 * T, y: 30 * T }],
     home: { x: 4.2 * T, y: 15.6 * T },
   };
 }
@@ -224,6 +227,9 @@ const DIALOGS = {
   semPocao: [['cansado', 'Não tenho nenhuma poção...']],
   vidaCheia: [['neutro', 'Estou bem, não preciso de poção agora.']],
   acordou: [['cansado', 'Ugh... Acordei em casa. Preciso tomar mais cuidado.']],
+  cavalo: [['feliz', 'Um cavalo manso. Ele bufa satisfeito com o carinho.']],
+  cavaloComendo: [['neutro', 'Ele está ocupado comendo grama. Melhor não atrapalhar.']],
+  vagalumes: [['feliz', 'Vagalumes! Dizem que dá sorte ver um bando deles.']],
   todosBaus: [['feliz', 'Encontrei todos os tesouros da vila! Que dia!']],
 };
 

diff --git a/tools/build_assets.py b/tools/build_assets.py
@@ -38,6 +38,9 @@ SHEETS = {
     'rei-nadando': dict(grid=True, water=True, ref_h=820),
     'rei-emocoes': dict(grid=True, ref=0, target=96),
     'rei-retratos': dict(grid=False, ref=0, target=120),
+    # brilho rosado (amarelo misturado ao magenta) é removido; o brilho é desenhado no jogo
+    'vagalume': dict(grid=False, halo=True, char=True, scale=0.075, half=236,
+                     cells=[(256 + 512 * c, 256 + 512 * r) for r in range(4) for c in range(4)]),
     'relogio': dict(grid=True, ref=0, target=84, char=True, circle=186,
                     cells=[(x, y) for y in (352, 794, 1282, 1748) for x in (254, 636, 1028, 1414, 1790)]),
     # cenário
@@ -79,6 +82,7 @@ NAMES = {
     'rei-emocoes': ['corpo-neutro', 'corpo-feliz', 'corpo-assustado', 'corpo-bravo', 'corpo-cansado'],
     'rei-retratos': ['retrato-neutro', 'retrato-feliz', 'retrato-assustado', 'retrato-bravo', 'retrato-cansado'],
     'relogio': [f'relogio-{i}' for i in range(20)],
+    'vagalume': [f'vagalume-{i}' for i in range(16)],
     'arvores': ['arvore-carvalho', 'arvore-copa', 'arvore-betula', 'arvore-pinheiro', 'arbusto-0', 'arbusto-1',
                 'arbusto-2', 'arvore-pinheiro-2', 'arvore-seca', 'arvore-outono', 'arvore-pinheiro-outono',
                 'arvore-florida', 'arvore-pinheiro-neve', 'arvore-neve', 'toco', 'tronco', 'tronco-2', 'toco-broto'],
@@ -108,6 +112,15 @@ MANUAL = [
     ('vida', (1436, 276, 1597, 430), 'hp-vazio', None),
     ('vida', (100, 176, 218, 258), 'hp-rotulo', None),
     ('botao-pausa', (470, 470, 1580, 1580), 'botao-pausa', None),
+    # cavalo (mesma escala em todos os quadros)
+    ('cavalo', (130, 170, 400, 945), 'cavalo-baixo', 0.155),
+    ('cavalo', (570, 300, 1400, 860), 'cavalo-direita', 0.155),
+    ('cavalo', (1645, 120, 1910, 995), 'cavalo-cima', 0.155),
+    ('cavalo', (235, 1125, 1135, 1690), 'cavalo-esquerda', 0.155),
+    ('cavalo-comendo', (350, 90, 742, 985), 'cavalo-comer-baixo', 0.155),
+    ('cavalo-comendo', (1070, 320, 2020, 880), 'cavalo-comer-direita', 0.155),
+    ('cavalo-comendo', (36, 1270, 995, 1808), 'cavalo-comer-esquerda', 0.155),
+    ('cavalo-comendo', (1325, 1095, 1745, 1945), 'cavalo-comer-cima', 0.155),
 ]
 
 # Grades de tiles de chão: folha -> (colunas, linhas)
@@ -130,6 +143,7 @@ TARGET_H = {
     'desmaio-0': 72, 'desmaio-1': 62, 'desmaio-2': 36, 'desmaio-3': 36,
     'cama': 104, 'sonambulo-direita': 76, 'sonambulo-esquerda': 76,
     'olhos-fechados-baixo': 76, 'olhos-fechados-cima': 76,
+    'cavalo-baixo': 92, 'cavalo-cima': 100, 'cavalo-comer-baixo': 104, 'cavalo-comer-cima': 100,
     'hp-cheio': 30, 'hp-meio': 30, 'hp-vazio': 30, 'hp-rotulo': 18, 'botao-pausa': 44,
     'nadar-baixo': 50, 'nadar-cima-0': 54, 'nadar-cima-1': 54, 'nadar-cima-2': 54,
 }
@@ -189,12 +203,13 @@ def main():
     os.makedirs(OUT, exist_ok=True)
     sprites = {}
     for sheet, cfg in SHEETS.items():
-        a, fg = fg_mask(sheet, grid=cfg.get('grid', False), line_rgb=cfg.get('line_rgb'), glow=cfg.get('glow', False))
+        a, fg = fg_mask(sheet, grid=cfg.get('grid', False), line_rgb=cfg.get('line_rgb'), glow=cfg.get('glow', False), halo=cfg.get('halo', False))
         if cfg.get('water'):
             fg = key_water(a, fg)
         char = sheet.startswith('rei') or cfg.get('char', False)
         if 'cells' in cfg:  # grade fixa: recorta em volta de cada centro
-            boxes = [(x - 196, y - 200, x + 196, y + 200) for x, y in cfg['cells']]
+            hw = cfg.get('half', 196)
+            boxes = [(x - hw, y - hw - 4, x + hw, y + hw + 4) for x, y in cfg['cells']]
             if cfg.get('circle'):  # objeto redondo: descarta tudo fora do círculo
                 yy, xx = np.mgrid[0:fg.shape[0], 0:fg.shape[1]]
                 keep = np.zeros_like(fg)
@@ -222,9 +237,10 @@ def main():
 
     for sheet, box, name, s in MANUAL:
         # HUD: máscara estrita (o roxo-escuro dos corações vazios não é fundo)
-        a, fg = fg_mask(sheet, loose=sheet not in ('vida', 'botao-pausa'))
+        a, fg = fg_mask(sheet, loose=sheet not in ('vida', 'botao-pausa'),
+                        halo=sheet == 'cavalo-comendo')  # remove os cavalos "fantasma" rosados
         im = crop_rgba(a, fg, box)
-        if s is None:
+        if s is None or name in TARGET_H:
             s = TARGET_H[name] / im.height
         sprites[name] = resize(im, s)
 

diff --git a/tools/spritelib.py b/tools/spritelib.py
@@ -134,9 +134,17 @@ def glow_mask(a):
     return lilac | pink
 
 
-def fg_mask(name, loose=True, grid=False, line_rgb=None, glow=False):
+def halo_mask(a):
+    """Halo de luz misturado ao magenta (vermelho alto, azul >= verde)."""
+    r, g, b = a[..., 0], a[..., 1], a[..., 2]
+    return (r >= 195) & (b >= 140) & (b >= g - 5) & (r - g > 40)
+
+
+def fg_mask(name, loose=True, grid=False, line_rgb=None, glow=False, halo=False):
     a = load(name)
     bg = bg_mask(a, loose)
+    if halo:
+        bg |= halo_mask(a)
     if glow:
         bg |= glow_mask(a)
     if line_rgb is not None:

diff --git a/README.md b/README.md
@@ -7,6 +7,8 @@ Você controla o Rei Azul em uma vila com praça, feira, catedral, rio, fazenda 
 - **Relógio:** o dia dura 12 minutos reais e a noite, outros 12. O relógio no canto superior direito avança com o tempo, e há crepúsculo e amanhecer graduais. À noite os prédios mudam de sprite e as luzes se acendem. Dormir em casa pula para o próximo período.
 - **Vida:** a barra de corações fica no canto inferior esquerdo e sobe e desce em meios corações. A fogueira tira ½ coração, a poção cura 2 corações e a água do poço cura 1.
 - **Morte:** com a vida zerada, o rei desmaia e aparece a tela "Você morreu... Renasça.". Ao confirmar, ele renasce em casa.
+- **Cavalos:** dois cavalos ficam no pasto ao sul do rio. Eles andam nas 4 direções, param para comer grama e desviam da fogueira. Dá para acariciar com E.
+- **Vagalumes:** bandos raros de 5 a 9 vagalumes cruzam o mapa piscando. Aparecem principalmente à noite (cerca de 1 a cada 1,5 min) e quase nunca de dia (cerca de 1 a cada 12 min).
 - **Pausa:** o botão no canto superior esquerdo funciona com clique ou toque (ou P / Esc).
 
 ## Como jogar
